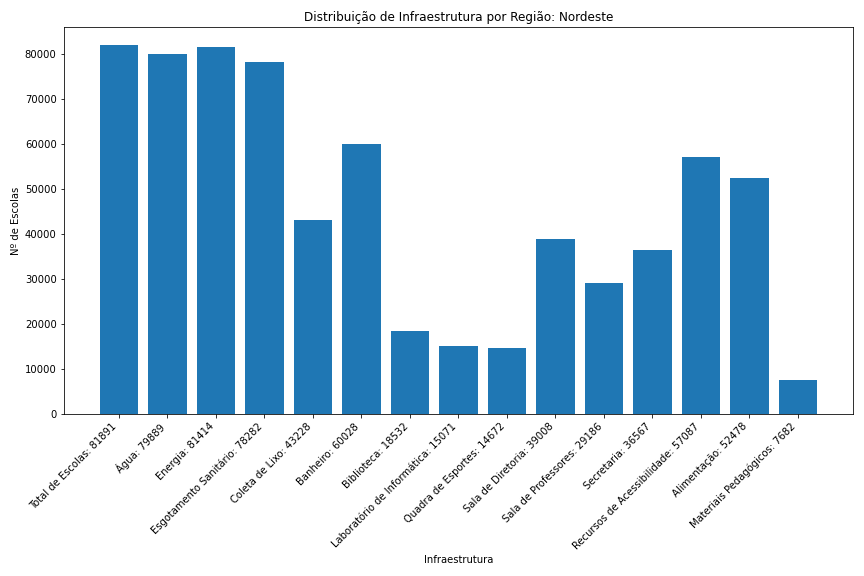
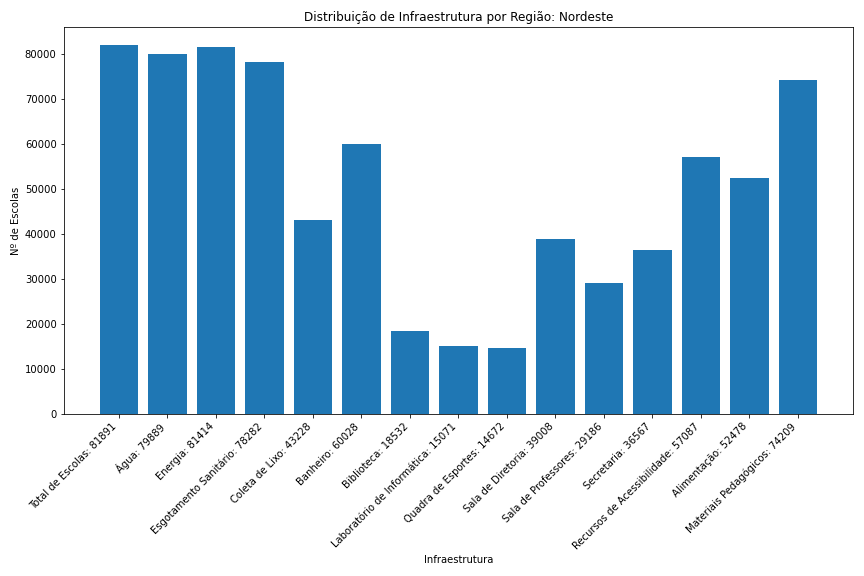
Gráficos prontos

diff --git a/graficos.py b/graficos.py
@@ -46,7 +46,7 @@ for i, regiao in enumerate(regioes):
         value = reg_df[column].sum()
         
         #Corrige os dados que vinham invertidos, com o final "_INEXISTENTE"
-        if label in ["Água", "Energia", "Esgotamento Sanitário", "Recursos de Acessibilidade"]:
+        if label in ["Água", "Energia", "Esgotamento Sanitário", "Recursos de Acessibilidade", "Materiais Pedagógicos"]:
             value = total_escolas - value
 
         # Adiciona o número total para cada label
